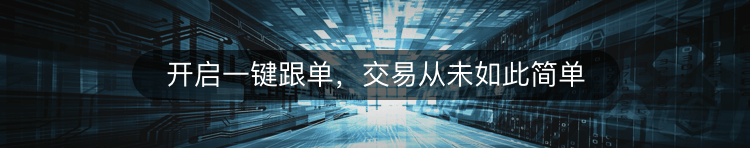
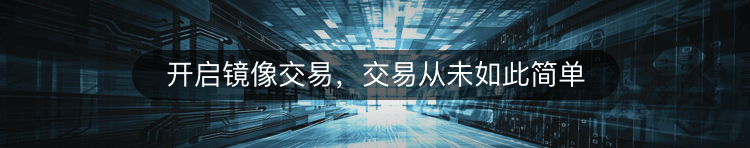
替换跟单banner图

Changed region(s): [[0.276, 0.4054, 0.46, 0.5946]]

diff --git a/src/components/followTrade/html/MobileFollowTrade.html b/src/components/followTrade/html/MobileFollowTrade.html
@@ -26,7 +26,7 @@
       <div class="my-with-single" @click="goToMobileMyFollowOrder">我的跟单</div>
       <div @click="goToMobileMyFollowOrder"><img class="my-with-single-img" src="../../LuckyDraw/assets/mobileForecastHomePage/item_right_icon.png" alt=""></div>
     </div>
-    <div class="data-update">数据每小时更新一次</div>
+<!--    <div class="data-update">数据每小时更新一次</div>-->
 
     <!--遍历大佬详细信息Start-->
     <div class="big-brother-start" v-for="(item,index) in listGod" @click="goToDocumentary(item)">

diff --git a/src/components/followTrade/html/FollowTrade.html b/src/components/followTrade/html/FollowTrade.html
@@ -12,7 +12,7 @@
         <!--带单龙虎榜-->
         <div class="follow-long">{{$t('listOfDragonsAndTigers')}}</div>
         <!--数据每小时更新一次-->
-        <div class="follow-xue">{{$t('updatedEveryHour')}}</div>
+<!--        <div class="follow-xue">{{$t('updatedEveryHour')}}</div>-->
       </div>
       <div class="follow-my">
         <!--我的跟单-->
